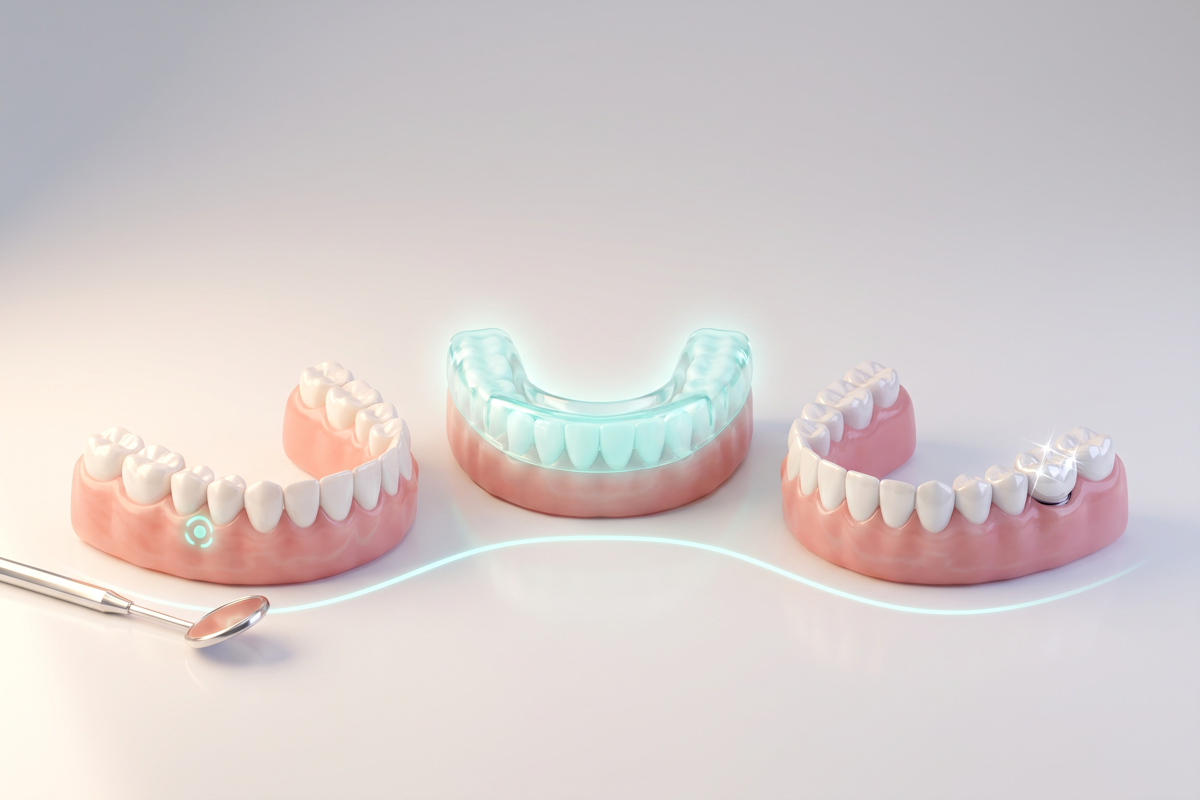
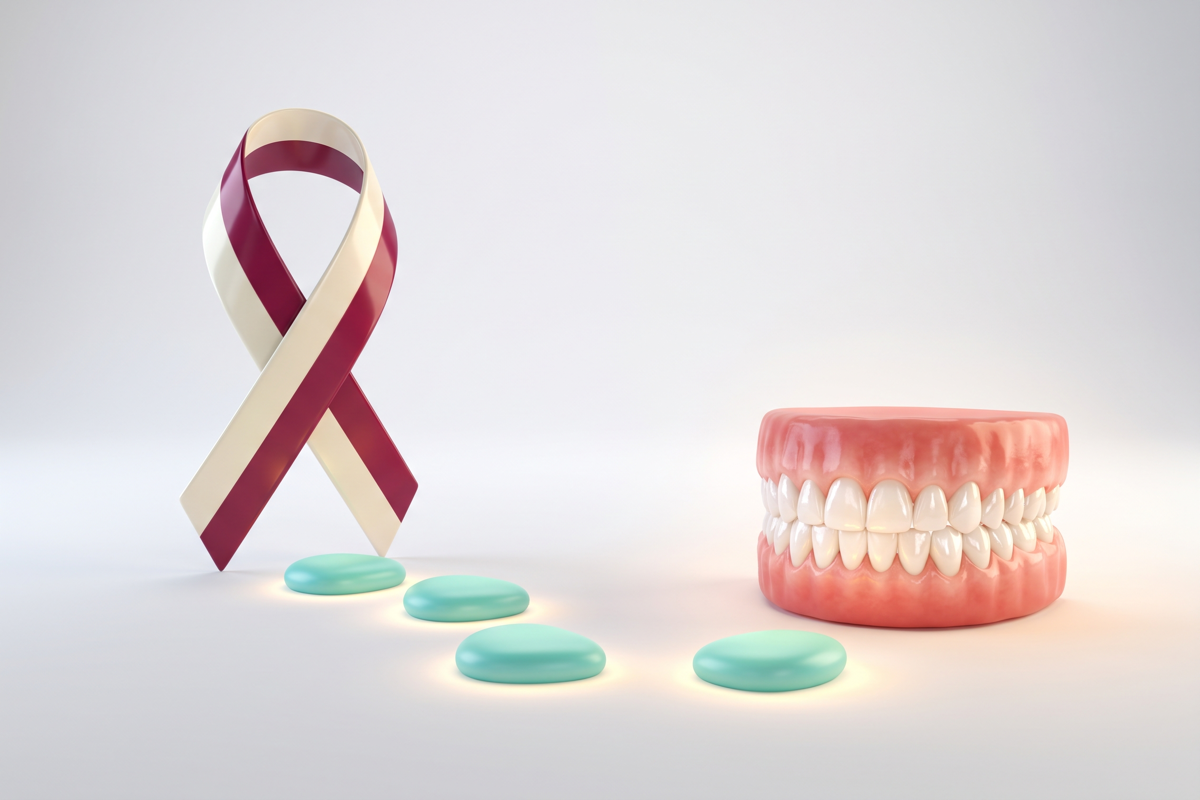
fix(services): Oncology Journey illustration reads as cancer care
Head & neck cancer awareness ribbon → stepping stones → healthy smile.

diff --git a/docs/superpowers/decisions.md b/docs/superpowers/decisions.md
@@ -355,4 +355,4 @@ Dr. Hsu sent the cancer-care document (pre-op / treatment / post-op) titled **Th
 
 **Order** — Oral Medicine & Pathology re-sequenced per the practice: Oral Pathology, Oral Cancer Screening, Biopsies, The Oncology Journey, Custom Radiation Shields, Osteonecrosis. Order is array order in `content/services.ts`; a test now pins it.
 
-**Long-form rendering** — the doc is ~1,700 words with three heading levels and nested lists, too much for the flat `whitespace-pre-line` body. `ServiceBody` gained a structured mode (`## ` / `### ` / `#### ` headings, `**…**` emphasis, `• ` / `  ◦ ` lists) that only activates when a body contains a `## ` line, so every other service renders exactly as before. `/medical/[slug]` now uses `ServiceBody` too (it inlined the same markup). The 900-word body cap exempts this slug. Same day: added `oncology-journey.png` (Higgsfield `nano_banana_pro`, 3:2, resized to 1200×800). First pass (translucent skull + orbit ring) read as cold/odd for a cancer page and the ring was off-style, so it was replaced with three dental models in a row — exam (mirror + teal marker), protection (clear teal-glowing shield tray), recovery (restored arch with an implant crown) — joined by a thin teal line. Matches the set's glossy white teeth / pink gums / light background / teal-accent look.
+**Long-form rendering** — the doc is ~1,700 words with three heading levels and nested lists, too much for the flat `whitespace-pre-line` body. `ServiceBody` gained a structured mode (`## ` / `### ` / `#### ` headings, `**…**` emphasis, `• ` / `  ◦ ` lists) that only activates when a body contains a `## ` line, so every other service renders exactly as before. `/medical/[slug]` now uses `ServiceBody` too (it inlined the same markup). The 900-word body cap exempts this slug. Same day: added `oncology-journey.png` (Higgsfield `nano_banana_pro`, 3:2, resized to 1200×800). First pass (translucent skull + orbit ring) read as cold/odd for a cancer page and the ring was off-style, so it was replaced with three dental models in a row — exam (mirror + teal marker), protection (clear teal-glowing shield tray), recovery (restored arch with an implant crown) — joined by a thin teal line. Matches the set's glossy white teeth / pink gums / light background / teal-accent look. Rob: didn't read as *oncology*, so final version is the burgundy-and-ivory head & neck cancer awareness ribbon → teal stepping stones → healthy dental model (cancer → guided steps → restored smile).
